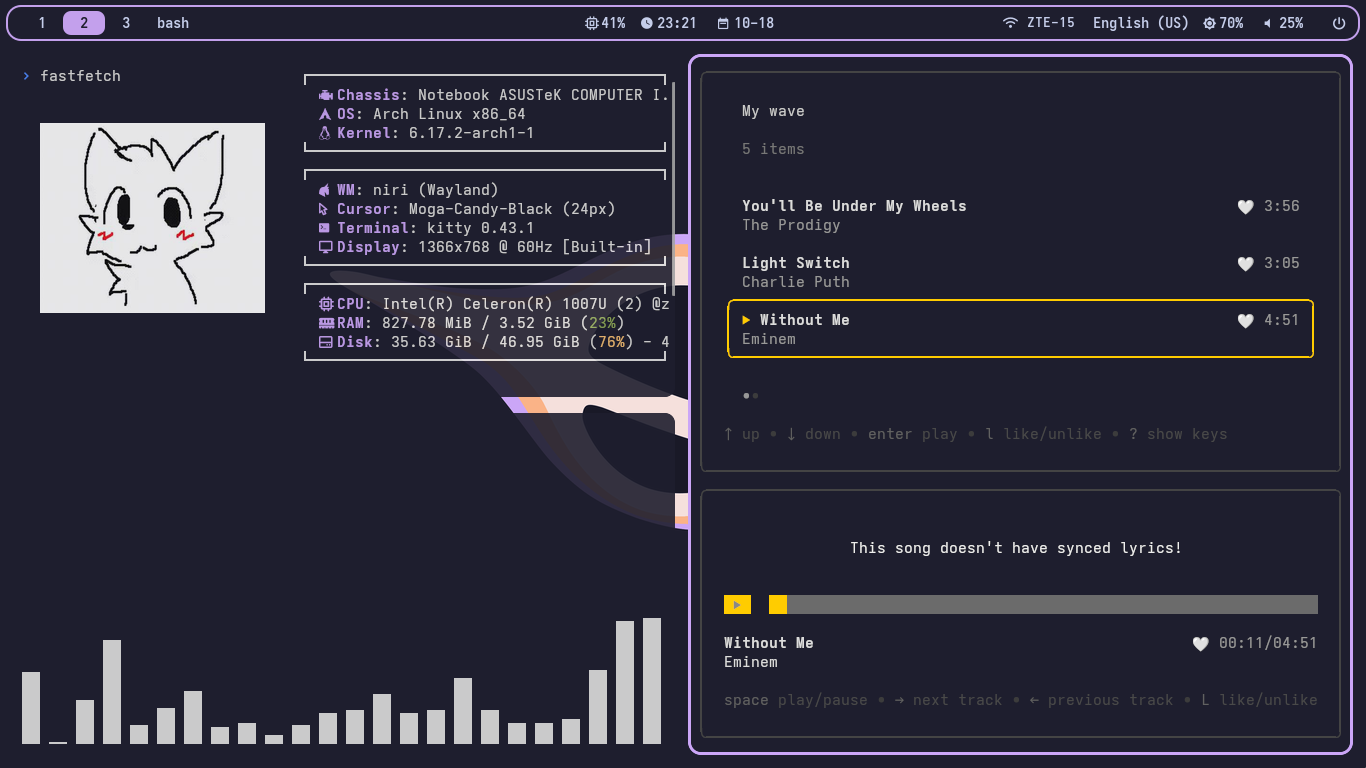
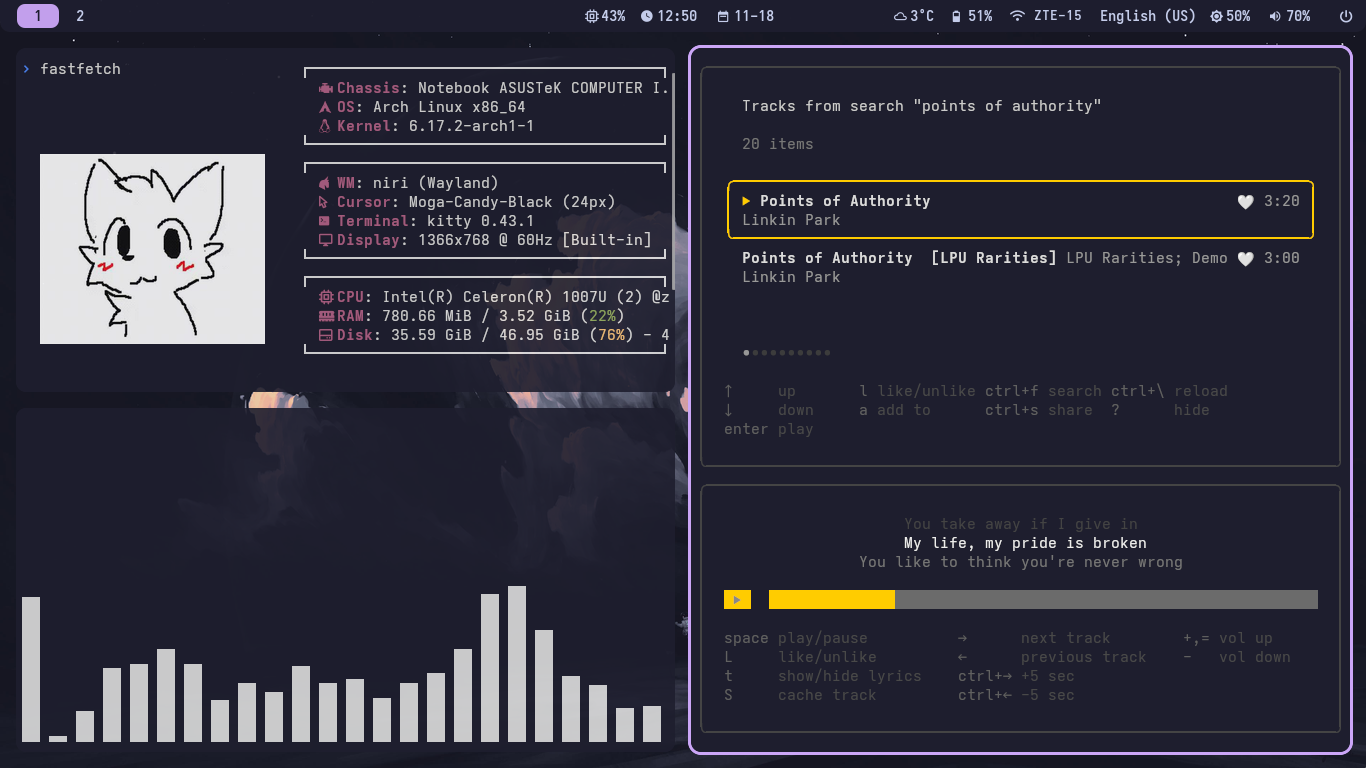
waybar: removed border

diff --git a/.config/waybar/style.css b/.config/waybar/style.css
@@ -18,17 +18,18 @@ window#waybar {
 }
 
 window#waybar > box {
-  margin: 5px 10px 0 10px;
+  /*margin: 5px 10px 0 10px;*/
   padding: 2px 0;
   background-color: @background;
-  border-radius: 10px;
-  border: 2px solid @selected;
+  border-radius: 0px 0px 10px 10px;
+  border: 0px solid @selected; /* 2px solid @selected */
   opacity: 0.95;
 }
 
 /* -- Tooltip Styling -- */
 tooltip {
   background: @background;
+  margin-top: 10px;
   border: solid;
   border-width: 1px;
   border-radius: 10px;
@@ -52,6 +53,7 @@ tooltip {
 #custom-backlight,
 #power-profiles-daemon,
 #battery,
+#custom-weather,
 #custom-power {
   opacity: 1;
   padding: 0px 3px;
